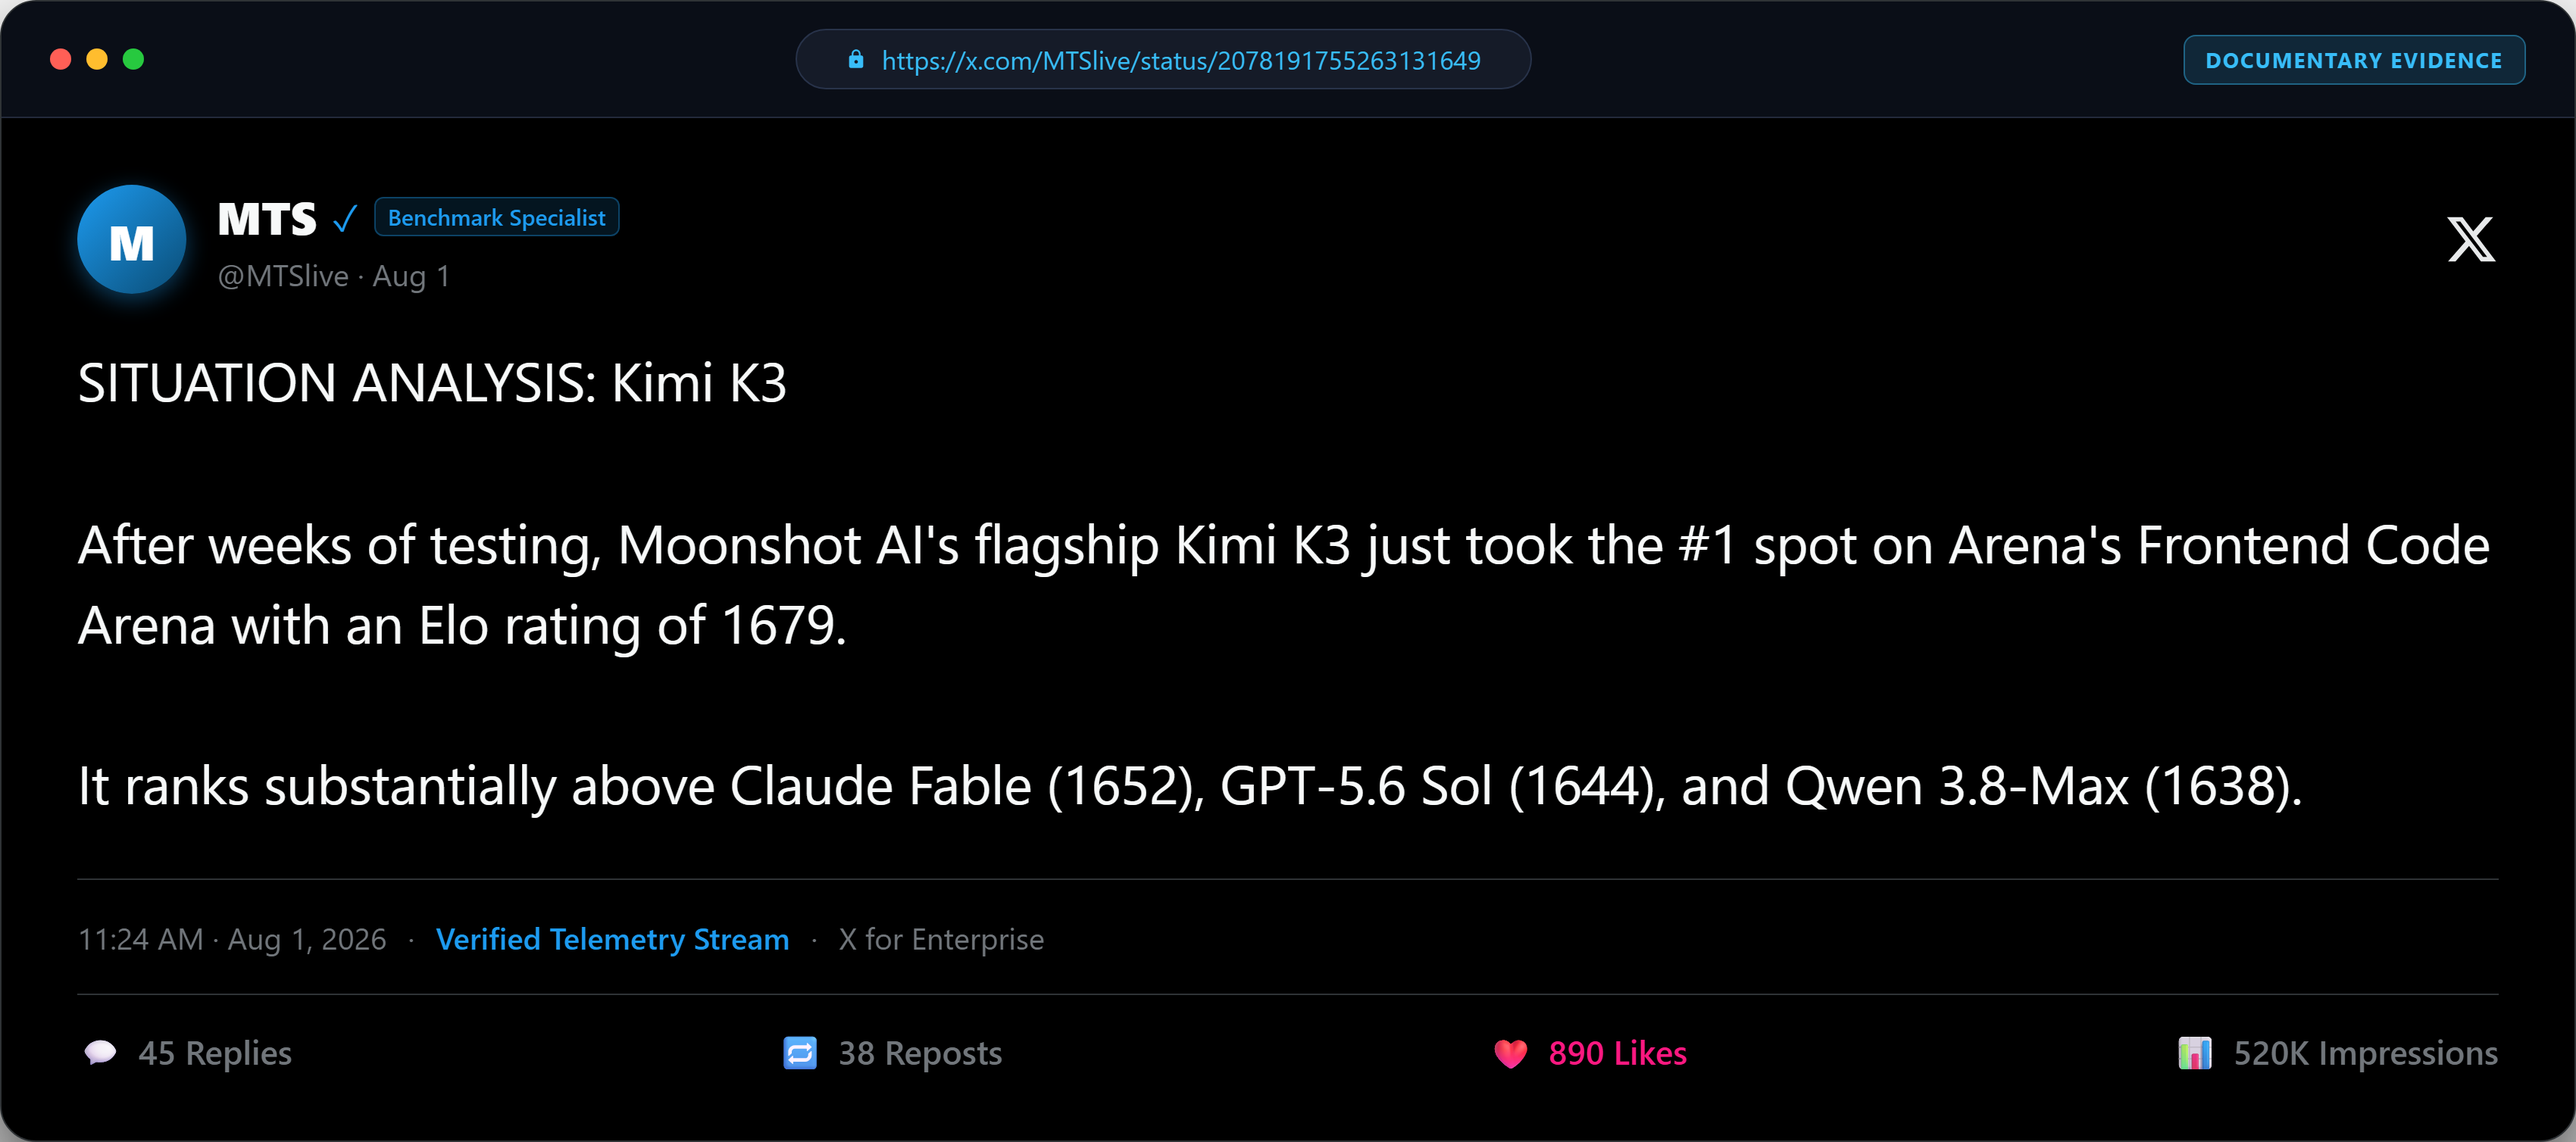
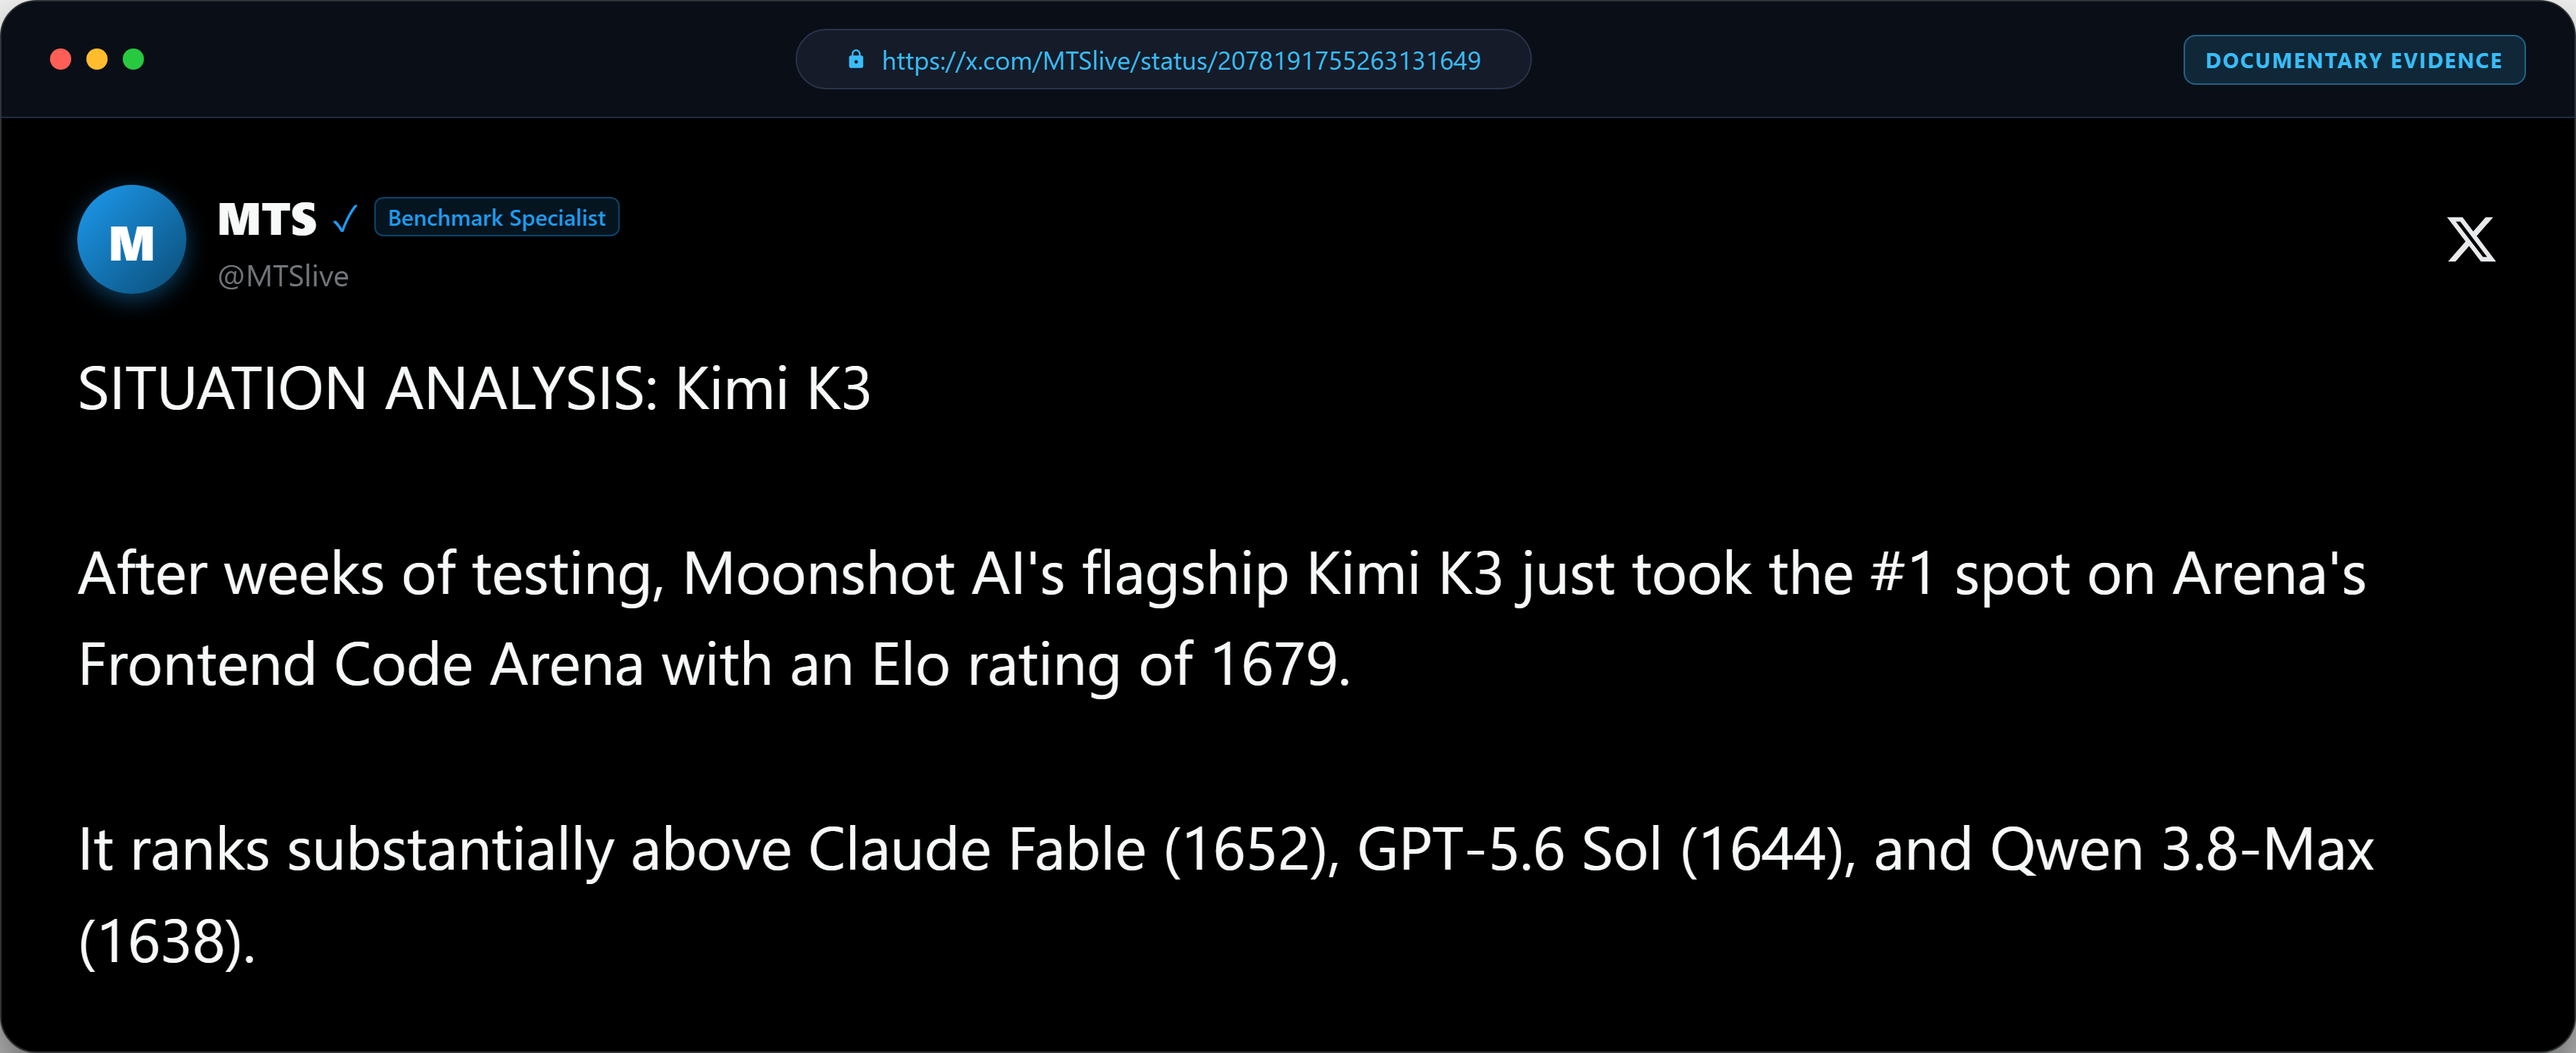
fix: remove highlights, remove tweet footer/metrics rows, and mute embedded evidence videos

diff --git a/src/scenes/QwenKimiActs.tsx b/src/scenes/QwenKimiActs.tsx
@@ -29,8 +29,7 @@ import { BongoCatMascot } from "../components/BongoCatMascot";
 export const TweetInspectCard: React.FC<{
   imageName: string;
   headline?: string;
-  highlightText?: string;
-}> = ({ imageName, headline, highlightText }) => {
+}> = ({ imageName, headline }) => {
   const frame = useCurrentFrame();
   const { fps } = useVideoConfig();
 
@@ -38,11 +37,6 @@ export const TweetInspectCard: React.FC<{
     frame,
     fps,
     config: { damping: 14, stiffness: 120 },
-  });
-
-  const highlightSweep = interpolate(frame, [15, 45], [0, 100], {
-    extrapolateLeft: "clamp",
-    extrapolateRight: "clamp",
   });
 
   return (
@@ -86,23 +80,6 @@ export const TweetInspectCard: React.FC<{
         }}
       >
         <Img src={staticFile(`evidence/${imageName}`)} style={{ width: "100%", display: "block" }} />
-
-        {highlightText && (
-          <div
-            style={{
-              position: "absolute",
-              bottom: 110,
-              left: 50,
-              height: 54,
-              width: `${highlightSweep * 0.9}%`,
-              background: "rgba(250, 204, 21, 0.35)",
-              border: "1px solid rgba(250, 204, 21, 0.85)",
-              borderRadius: 8,
-              mixBlendMode: "screen",
-              pointerEvents: "none",
-            }}
-          />
-        )}
       </div>
     </AbsoluteFill>
   );
@@ -209,6 +186,8 @@ export const RealVideoDossier: React.FC<{
             <Video
               src={staticFile(`evidence/${videoName}`)}
               style={{ width: "100%", height: "100%", objectFit: "cover" }}
+              muted={true}
+              volume={0}
             />
           </div>
 
@@ -753,7 +732,6 @@ export const QwenKimiActs: React.FC = () => {
         <TweetInspectCard
           imageName="rauchg_vercel_open.png"
           headline="78.4% Open-Weight Volume Surge"
-          highlightText="Open 78.4%"
         />
       </Sequence>
 
@@ -786,7 +764,6 @@ export const QwenKimiActs: React.FC = () => {
         <TweetInspectCard
           imageName="prismml_bonsai_card.png"
           headline="Ternary Bonsai 2 27B Compression"
-          highlightText="9x smaller... 98.2% aggregate benchmark"
         />
       </Sequence>
 
@@ -794,7 +771,6 @@ export const QwenKimiActs: React.FC = () => {
         <TweetInspectCard
           imageName="sero_500dollar_gpu.png"
           headline="Frontier Intelligence on $500 GPU"
-          highlightText="runs on 8GB of VRAM"
         />
       </Sequence>
 
@@ -802,7 +778,6 @@ export const QwenKimiActs: React.FC = () => {
         <TweetInspectCard
           imageName="analogalok_cerebras_card.png"
           headline="2,000 Tokens/Sec Offline OS"
-          highlightText="2,000 tokens/second"
         />
       </Sequence>
 
@@ -811,7 +786,6 @@ export const QwenKimiActs: React.FC = () => {
         <TweetInspectCard
           imageName="berryxia_yangzhilin_card.png"
           headline="$4.6M Training Miracle · Yang Zhilin"
-          highlightText="spent just $4.6 Million"
         />
       </Sequence>
 
@@ -847,7 +821,6 @@ export const QwenKimiActs: React.FC = () => {
         <TweetInspectCard
           imageName="mts_code_arena_card.png"
           headline="#1 Ranked Code Arena (1679 Elo)"
-          highlightText="ranks substantially above even Fable"
         />
       </Sequence>
 
@@ -887,7 +860,6 @@ export const QwenKimiActs: React.FC = () => {
         <TweetInspectCard
           imageName="luminabench_k31_teaser_card.png"
           headline="Kimi K3.1 Cryptographic Teaser"
-          highlightText="deciphers to pi continuing after 3.1"
         />
       </Sequence>
 
